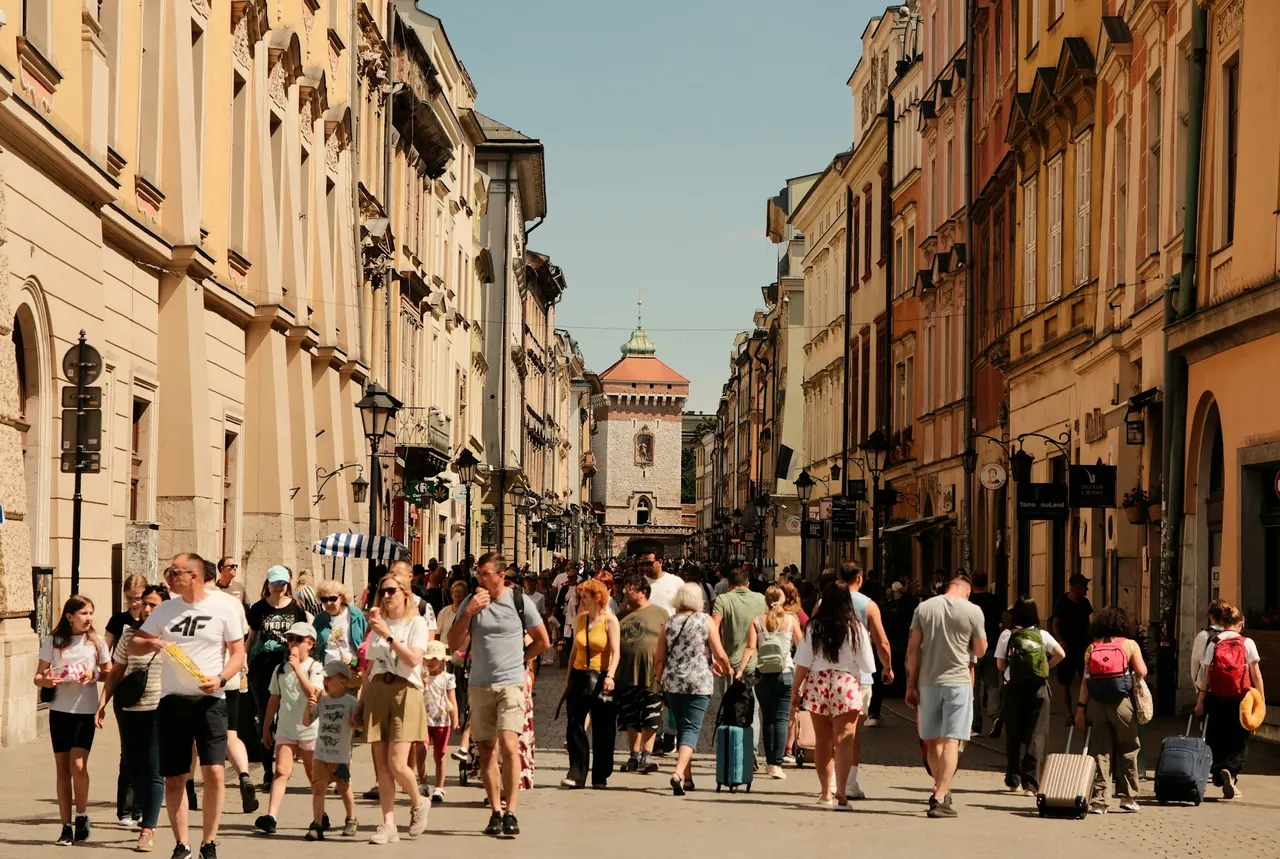
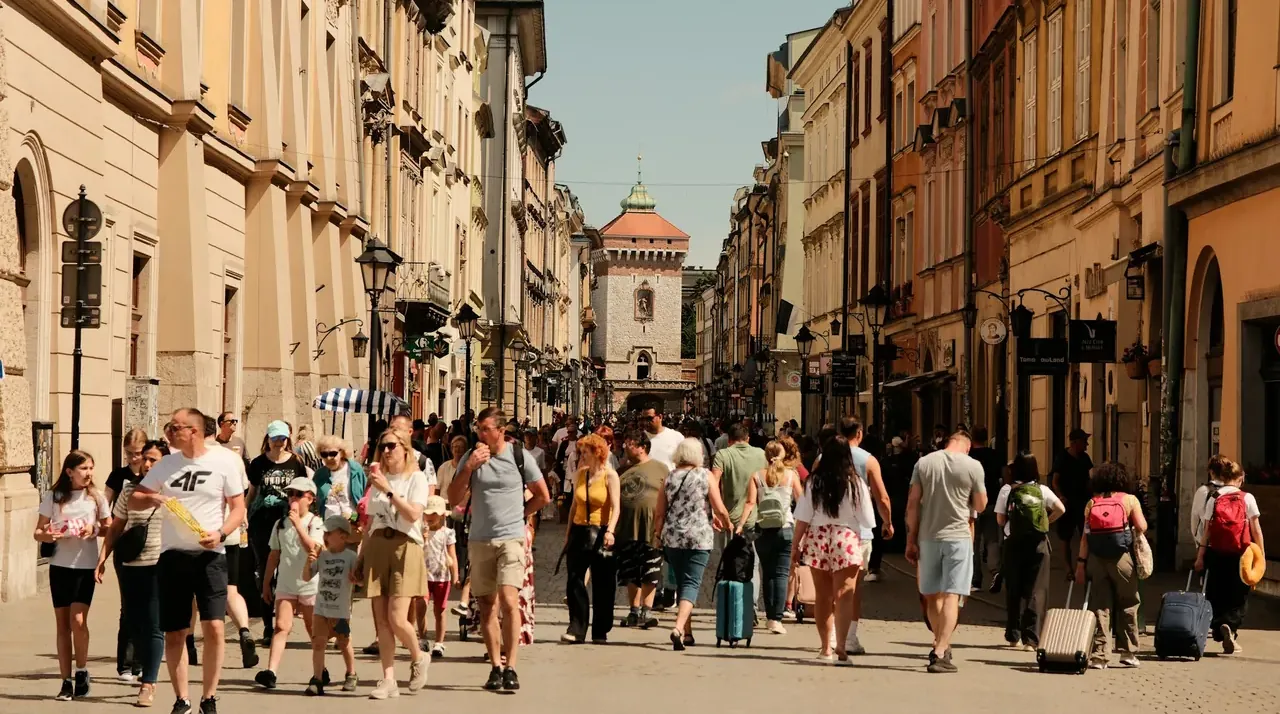
fix(web): show the poster's lettering and level the before/after pair
The GPT Image card cropped the tall poster through its middle and cut off the
headline, which is the model's selling point; the card now shows the poster's
top. The Kraków comparison was 3:2 and stood taller than the Louvre's; both of
its pictures are cut from the top to the Louvre's 1280x714.

Claude-Session: https://claude.ai/code/session_01Qar733nZKAJ7Kyk5Tj8Zgc

diff --git a/packages/web/src/pages/landing.tsx b/packages/web/src/pages/landing.tsx
@@ -53,12 +53,14 @@ const FEATURES: Array<{ key: string; icon: () => JSX.Element; title: I18nKey; le
   },
 ]
 
-const MODELS: Array<{ key: string; model: Sample["model"]; lead: I18nKey; points: I18nKey[] }> = [
+const MODELS: Array<{ key: string; model: Sample["model"]; lead: I18nKey; points: I18nKey[]; crop?: string }> = [
   {
     key: "poster",
     model: "gpt-image-2.5",
     lead: "landing.models.gpt.lead",
     points: ["landing.models.gpt.point1", "landing.models.gpt.point2"],
+    // The card shows the top of the tall poster, where its lettering is: lettering is this model's point.
+    crop: "object-top",
   },
   {
     key: "meo-mua",
@@ -273,7 +275,7 @@ export default function Landing() {
             {(item) => (
               <li class="rim relative flex flex-col overflow-hidden rounded-card bg-surface bg-sheen shadow-raised">
                 <div class="aspect-[4/3] overflow-hidden">
-                  <Picture sample={sample(item.key)} sizes="(min-width: 768px) 360px, 92vw" cover />
+                  <Picture sample={sample(item.key)} sizes="(min-width: 768px) 360px, 92vw" cover class={item.crop} />
                 </div>
                 <div class="flex flex-col gap-2 p-5">
                   <h3 class="text-title-3 text-label">{MODEL_NAMES[item.model]}</h3>

diff --git a/packages/web/src/showcase.ts b/packages/web/src/showcase.ts
@@ -186,8 +186,9 @@ const SAMPLES: Sample[] = [
     model: "nano-banana-2.1",
     prompt:
       "Xoá toàn bộ người trong ảnh. Giữ nguyên kiến trúc, mặt đường, ánh sáng, màu sắc, góc chụp và mọi chi tiết khác; lấp phần trống tự nhiên như ảnh chụp lúc phố vắng",
+    // Cropped from the top to the Louvre's shape, so the two comparisons stand the same height.
     width: 1280,
-    height: 859,
+    height: 714,
     small: 640,
   },
   {
